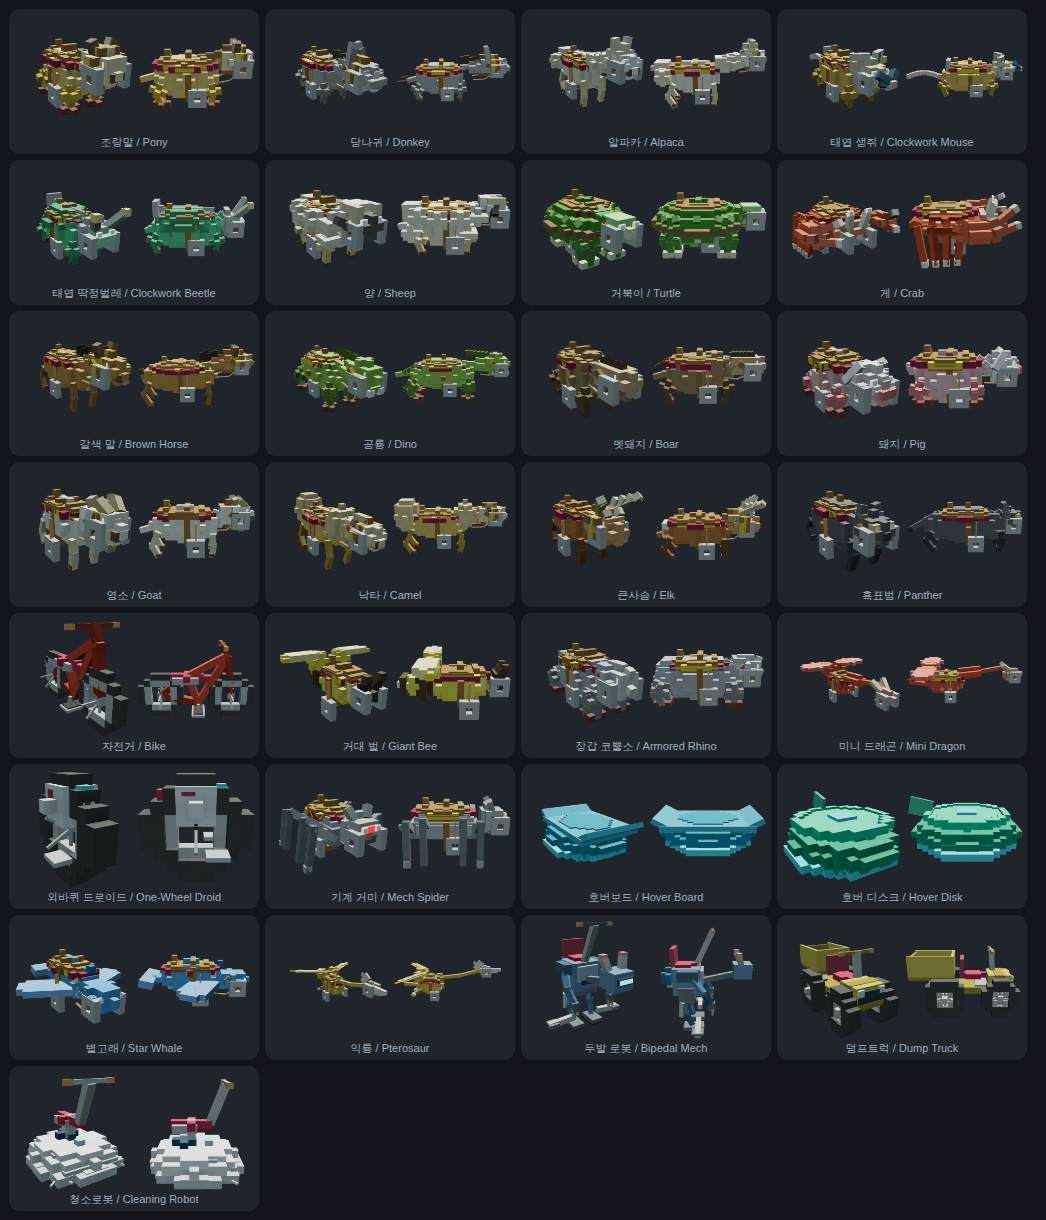
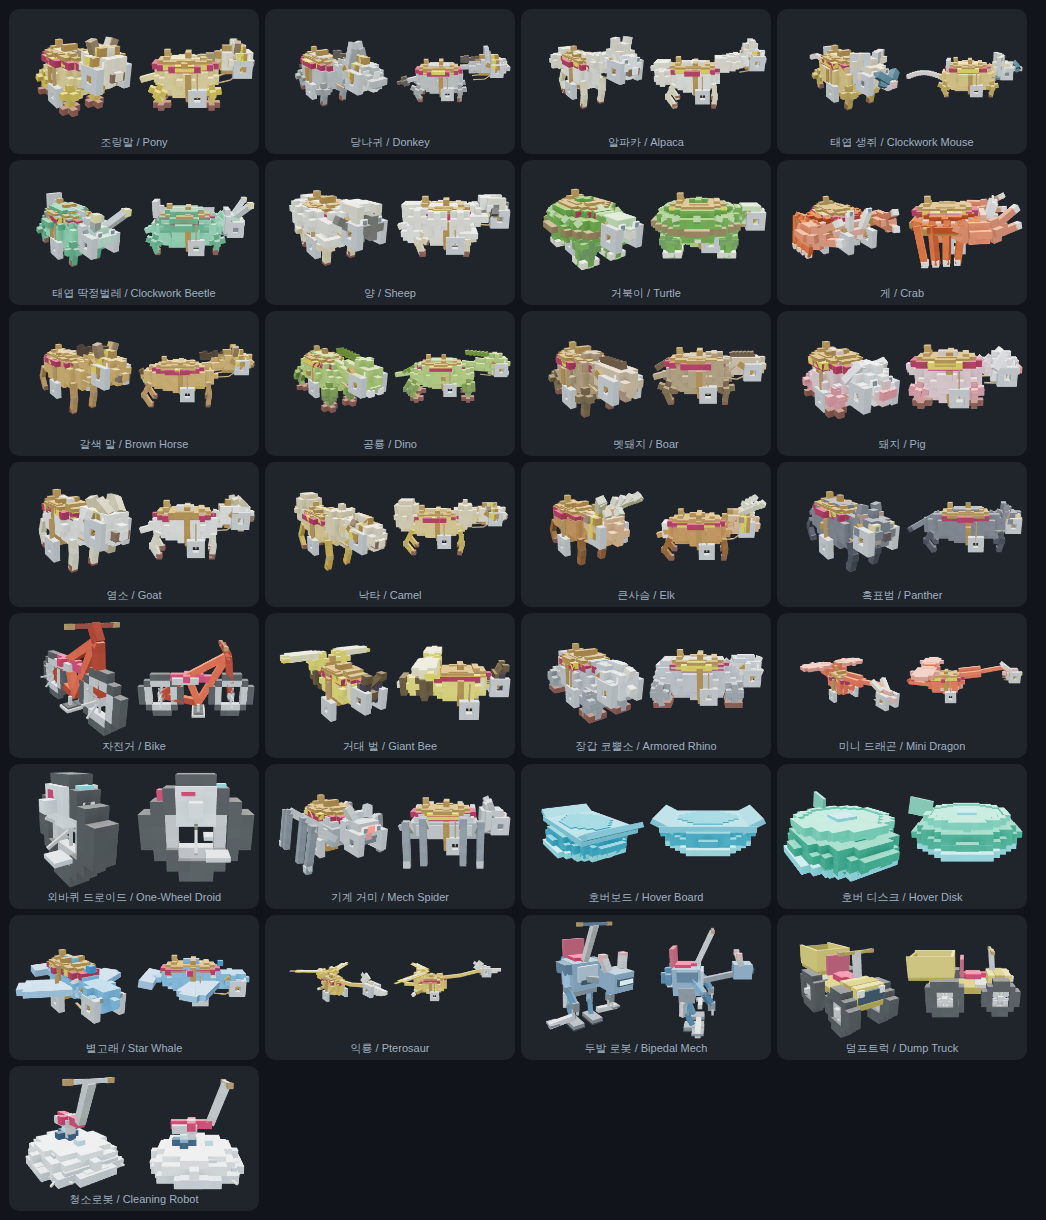
익룡 몸통 덩어리화 — 'wire spine' 감점 처치 (비평가 6인 최약 타일)
비평가 6인이 매 라운드 익룡을 최약 타일로 꼽았다('thin gold wire spine').
폭(x0.88)은 다리 노출 근거, 높이(y1.06)는 안장 천장(0.38)이라 못 키우니
안전한 축으로 몸통 부피를 확보: 몸통 z 1.55→1.85(길게)·밝은 배 반높이
0.045→0.069·길이 1.28→1.40(두껍게). 둘 다 안장 밑/뒤 저위라 ride-clear 무관.

검증: probe-ride-clear Pterosaur thighL 0% 근쪽 다리 노출 통과 · probe-mount
-detached 0 · probe-creature-framing 전 항목 PASS · node --check · 콘솔 0.
mount-species.png 익룡 몸통이 'wire'→덩어리로 읽힘(가는 등뼈 해소).

Claude-Session: https://claude.ai/code/session_01TAf9dqF5GvSYsFeeTsN3Mp

diff --git a/web/js/scene3d.js b/web/js/scene3d.js
@@ -11307,7 +11307,7 @@ const Scene3D = {
             //    **날개**가 낸다. 길게 두면 드래곤과 실루엣이 겹친다(같은 초록 통에 같은 목).
             sp(0.16, 0, 0.22, 0, mat, dragon ? 0.95 : whale ? 0.95 : ptero ? 0.88 : 0.9,
                dragon ? 1.0 : whale ? 1.05 : ptero ? 1.06 : 0.95,   // 익룡 몸 y 0.92→1.06: 비평가 "skeletal wire-thin body" — 폭(x0.88)은 다리 노출 근거라 불변, 높이만 키워 몸통 덩어리를 세운다
-               dragon ? 1.75 : whale ? 2.0 : ptero ? 1.55 : 1.75);   // 익룡 z 1.45→1.55: 살짝 길게(덩어리 확보, 드래곤 1.75 보단 짧게 유지)
+               dragon ? 1.75 : whale ? 2.0 : ptero ? 1.85 : 1.75);   // 익룡 z 1.55→1.85: 비평가 6인 '가는 wire spine' — 폭(x0.88 다리 노출)·높이(y1.06 안장 0.38 천장)는 못 키우니 길이로 몸통 덩어리를 확보(z 는 ride-clear 무관)
             if (whale) {
                 // 별고래: 둥근 머리 + 아래턱 홈 + 꼬리 지느러미(fluke), 등에 별 반짝임
                 // ⚠ 이마를 y 0.235에 두면 정수리(0.355)가 카메라→먼 정강이 시선을 스쳐 probe-ride-clear
@@ -11467,7 +11467,7 @@ const Scene3D = {
                 //    각도 근거: Rx(θ) 는 +y 를 (0, cosθ, sinθ) 로 보낸다 → θ=−0.95 면 위 0.58 · 뒤 0.81.
                 const crest = cn(0.105, 0.30, 0, 0.585, 0.855, BONE);
                 crest.scale.set(0.20, 1, 1); crest.rotation.x = -0.95; HEADPART(crest);
-                sp(0.15, 0, 0.155, 0.02, light, 0.84, 0.30, 1.28);                    // 밝은 배
+                sp(0.15, 0, 0.150, 0.02, light, 0.86, 0.46, 1.40);                    // 밝은 배 — 반높이 0.045→0.069·길이 1.28→1.40 로 두껍혀 'wire' 감점 처치(안장 밑 저위라 ride-clear 무관)
                 // 접어 올린 뒷발 — 나는 새·익룡은 발을 몸에 붙인다. 없으면 '통에 붙은 날개'다.
                 for (const s of [-1, 1]) {
                     tube([s * 0.08, 0.16, -0.10], [s * 0.11, 0.08, -0.26], 0.020, dark);
